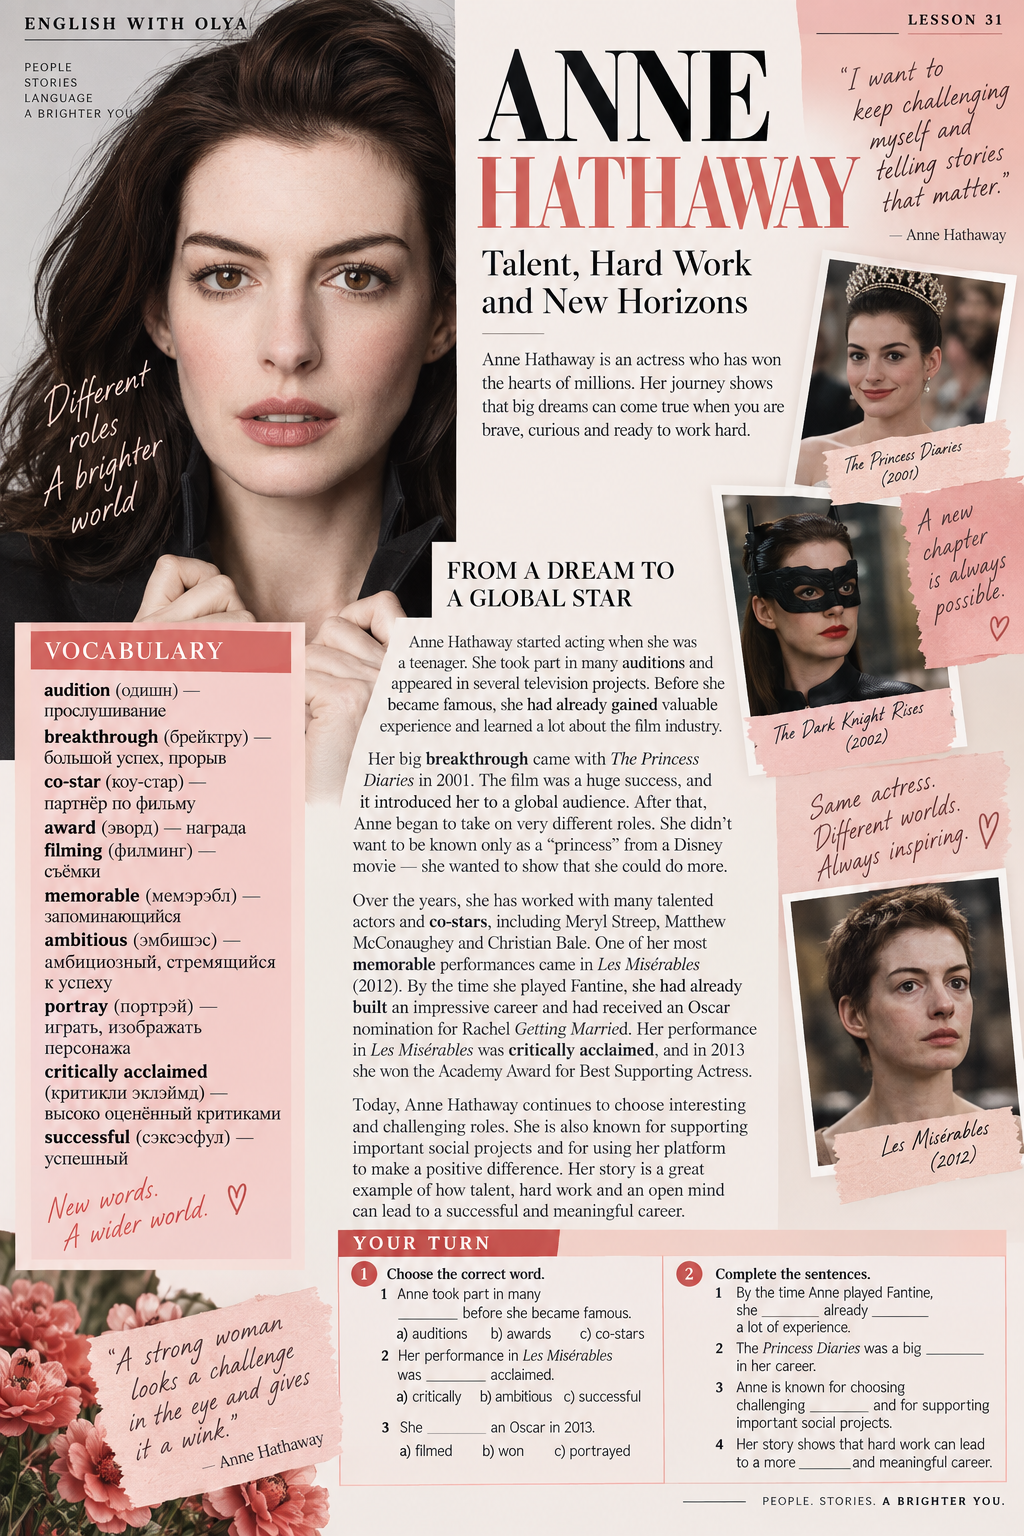
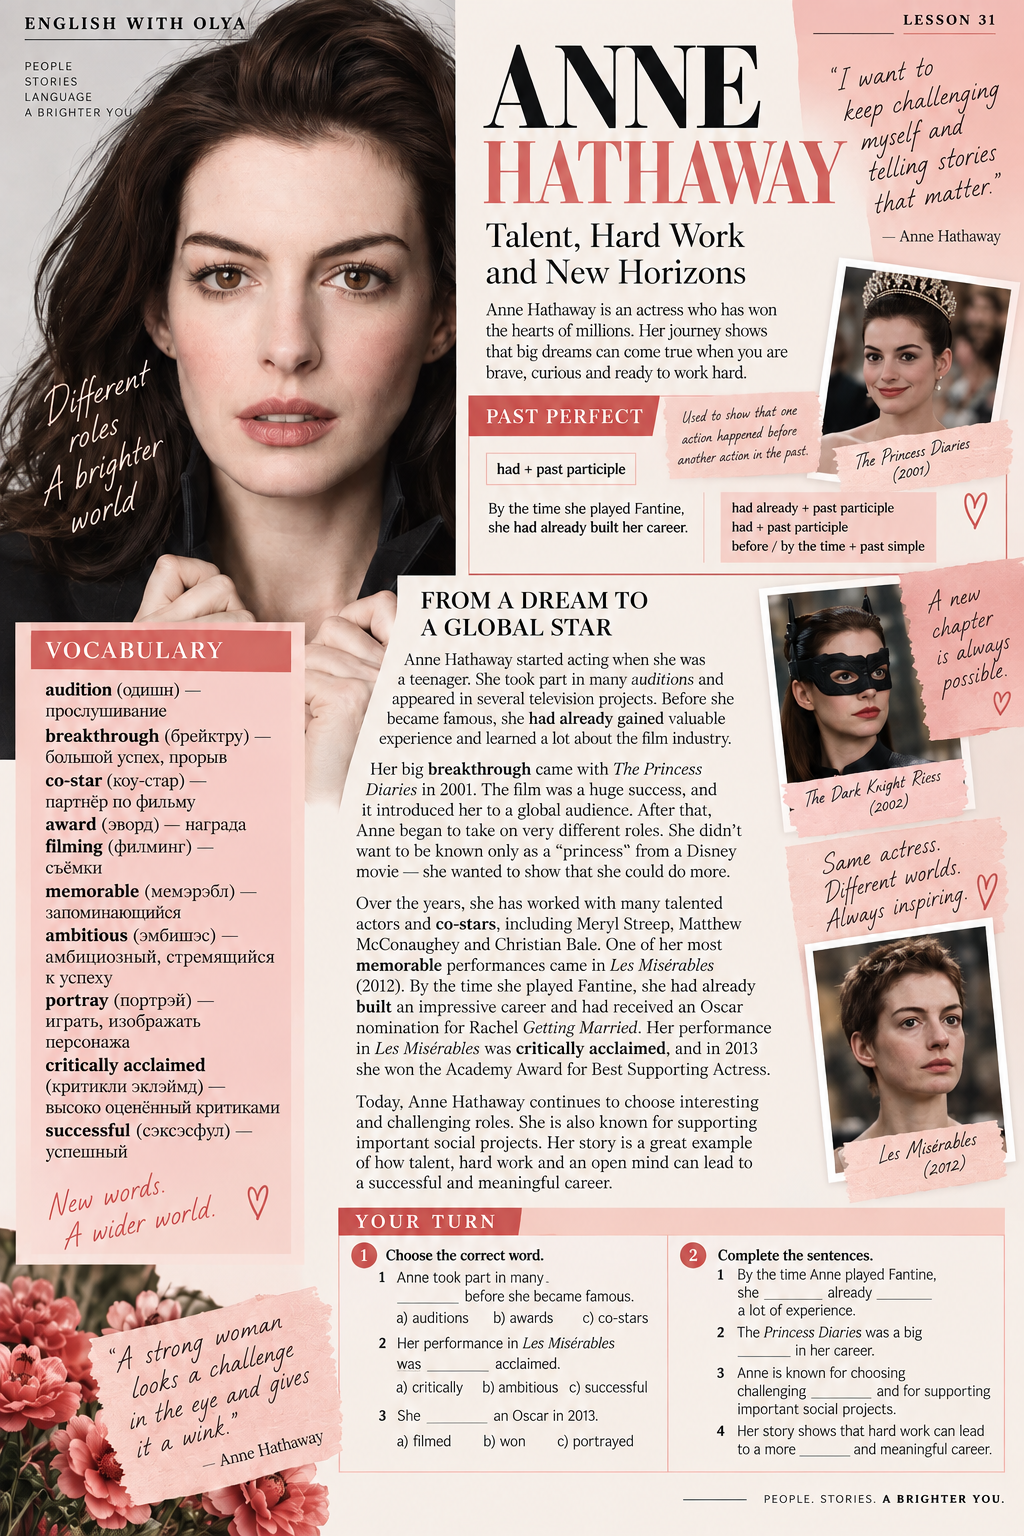
changes

diff --git a/script.js b/script.js
@@ -90,8 +90,9 @@ async function loadMagazine() {
     const coverBack =
         pages[pages.length - 1];
 
+let contentPageNumber = 0;
 
-    regularPages.forEach((item, index) => {
+regularPages.forEach((item, index) => {
 
         const page =
             document.createElement("div");
@@ -225,25 +226,38 @@ async function loadMagazine() {
         ================================================= */
 
         const menuItem =
-            document.createElement("p");
+    document.createElement("p");
 
-        menuItem.textContent =
-            `${String(index + 1).padStart(2, "0")} — ${item.title}`;
+const isSection =
+    item.title === "Movies" ||
+    item.title === "Celebrities";
 
-        menuItem.style.cursor =
-            "pointer";
+contentPageNumber++;
 
-        menuItem.addEventListener("click", () => {
+menuItem.textContent =
+    isSection
+        ? item.title
+        : `${String(
+            contentPageNumber + 1
+        ).padStart(2, "0")} — ${item.title}`;
 
-            pageFlip.turnToPage(index);
+if (isSection) {
+    menuItem.classList.add("menu-section");
+}
 
-            menu.classList.remove("active");
+menuItem.style.cursor =
+    "pointer";
 
-        });
+menuItem.addEventListener("click", () => {
 
-        menuPages.appendChild(menuItem);
+    pageFlip.turnToPage(index);
 
-    });
+    menu.classList.remove("active");
+
+});
+
+menuPages.appendChild(menuItem);
+});
 
 
     /* =====================================================
@@ -279,40 +293,58 @@ async function loadMagazine() {
         `;
 
 
-        regularPages.forEach((item, index) => {
+        let contentsPageNumber = 0;
 
-            if (index === 0) return;
+regularPages.forEach((item, index) => {
 
+    if (index === 0) return;
 
-            const number =
-                String(index + 1).padStart(2, "0");
+    const isSection =
+        item.title === "Movies" ||
+        item.title === "Celebrities";
 
+    if (isSection) {
 
-            contentsHTML += `
-                <div
-                    class="contents-item"
-                    data-page="${index}"
-                >
+        contentsHTML += `
+            <div class="contents-section">
+                <span></span>
+                <strong>${item.title}</strong>
+                <span></span>
+            </div>
+        `;
 
-                    <span class="contents-number">
-                        ${number}
-                    </span>
+        return;
+    }
 
-                    <span class="contents-title">
-                        ${item.title}
-                    </span>
+    const number =
+        item.title === "Twilight"
+            ? "20"
+            : String(index + 1).padStart(2, "0");
 
-                    <span class="contents-dots"></span>
+    contentsHTML += `
+        <div
+            class="contents-item"
+            data-page="${index}"
+        >
 
-                    <span class="contents-arrow">
-                        →
-                    </span>
+            <span class="contents-number">
+                ${number}
+            </span>
 
-                </div>
-            `;
+            <span class="contents-title">
+                ${item.title}
+            </span>
 
-        });
+            <span class="contents-dots"></span>
 
+            <span class="contents-arrow">
+                →
+            </span>
+
+        </div>
+    `;
+
+});
 
         contentsHTML += `
                 </div>
@@ -416,7 +448,7 @@ async function loadMagazine() {
         document.createElement("p");
 
     backMenuItem.textContent =
-        `${String(pages.length).padStart(2, "0")} — ${coverBack.title}`;
+    `${String(regularPages.length + 2).padStart(2, "0")} — ${coverBack.title}`;
 
     backMenuItem.style.cursor =
         "pointer";

diff --git a/style.css b/style.css
@@ -250,6 +250,29 @@ body::before{
     cursor:pointer;
 
 }
+/* ================= MENU SCROLL FIX ================= */
+
+.menu {
+    overflow: hidden;
+}
+
+.menu-content {
+    flex: 1;
+    min-height: 0;
+    overflow-y: auto;
+    overflow-x: hidden;
+    padding-right: 10px;
+
+    scrollbar-width: thin;
+    scrollbar-color: rgba(255,255,255,.35) transparent;
+}
+
+#menu-pages {
+    height: auto;
+    max-height: none;
+    overflow: visible;
+    padding-right: 0;
+}
 
 
 
@@ -1080,5 +1103,18 @@ body::before{
 
     background: white;
 
+    cursor: pointer;
+}
+.menu-section {
+    margin-top: 24px;
+    margin-bottom: 12px;
+    padding-top: 14px;
+    border-top: 1px solid rgba(255, 255, 255, 0.25);
+
+    font-size: 14px !important;
+    letter-spacing: 3px;
+    text-transform: uppercase;
+
+    opacity: 0.65;
     cursor: pointer;
 }
